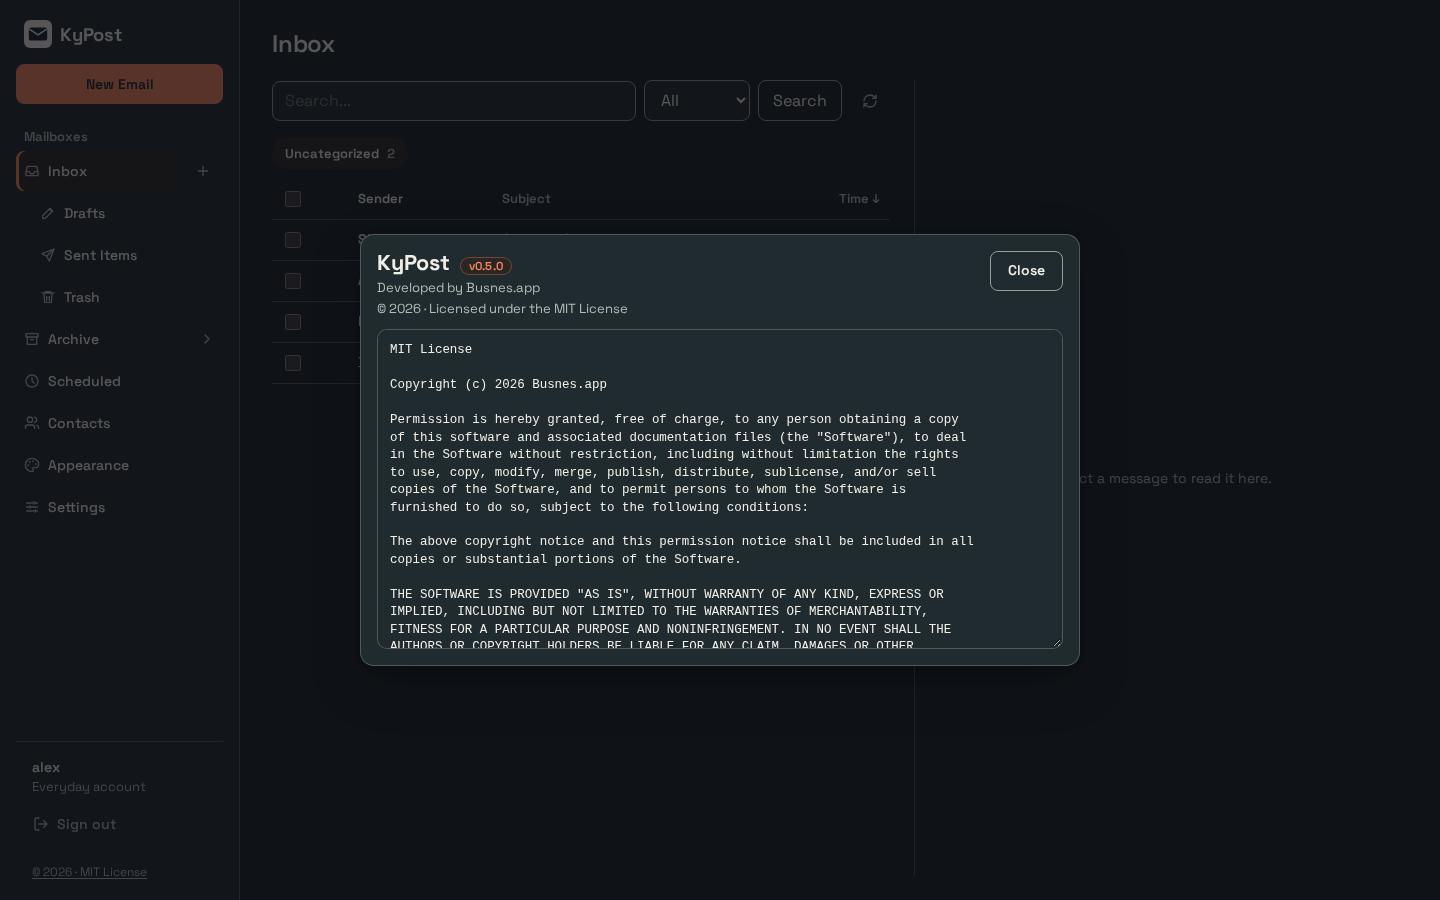
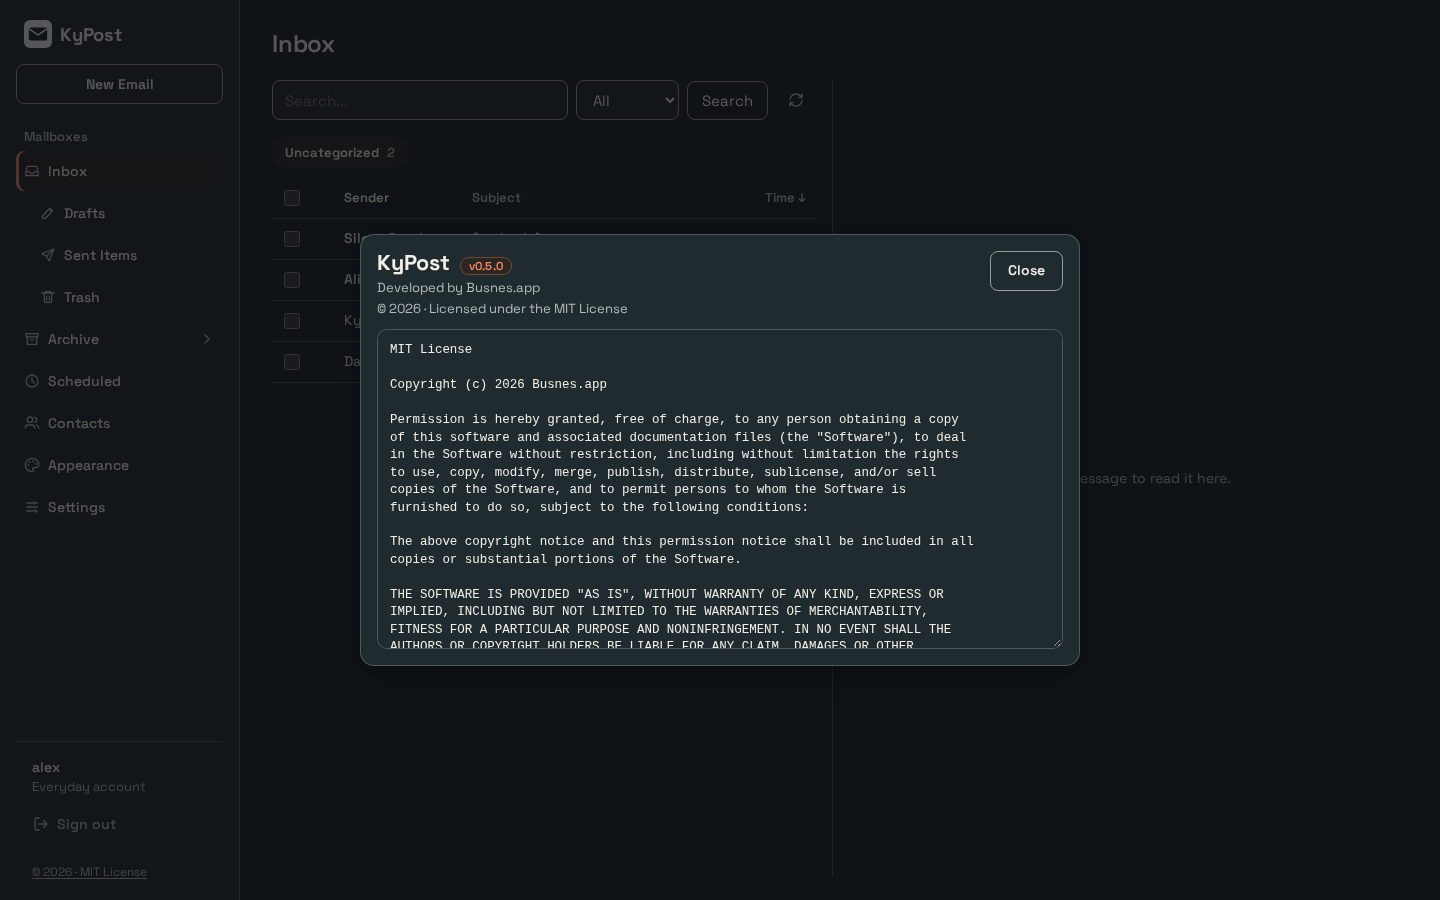
docs(ui): recapture after council round 2

diff --git a/UI-VERIFICATION.md b/UI-VERIFICATION.md
@@ -99,4 +99,6 @@ KyPost's 17 swatch buttons became ky-ui's native radio cards: Match system plus 
 
 ky-ui 0.6.0 (shell and six palette pairs) with the council's KyPost fixes: one-line inbox rows with snippets, a reading pane beside the list from 1100px, the bulk bar in place of search while messages are selected, Settings as its own page with its sections inside the content, Appearance as a direct nav link, the shared user block ("Sign out"), About dialog and sign-in card, and contact row actions in a ⋯ menu. Captures (desktop 1440×900 Busnes Light/Dark, phone 390×844 light) come from a scratch server signed in for real against the kypost-demo-IMAP fixture with synthetic contacts; before and after images are in [docs/ui-suite-2026-10-31/screenshots/](docs/ui-suite-2026-10-31/screenshots/). The driver is `captures/drivers/kypost-after.mjs` in the suite redesign workspace.
 
-Frontend checks passed: 1188 tests, typecheck, lint with 0 errors and 0 warnings, production build, `npm audit --omit=dev` and the ky-ui vendor check. Run on Node 22.23.1, not CI's Node 26. Only the Busnes pair was captured; the other five pairs were checked by the readability tests, not by eye.
+Council round 2 follow-up: Settings sections are one row of tabs above the panel (no second side column), Mail's six sections are the only second level, the Email settings form has sentence-case actions and one status line, New Email is outlined everywhere, the Inbox nav link spans its row, the reader shows the sent time beside the sender with an outlined Reply and keeps plain-text line breaks in the pane, and the bulk bar labels Snooze and Mark read.
+
+Frontend checks passed: 1189 tests, typecheck, lint with 0 errors and 0 warnings, production build, `npm audit --omit=dev` and the ky-ui vendor check. Run on Node 22.23.1, not CI's Node 26. Only the Busnes pair was captured; the other five pairs were checked by the readability tests, not by eye.
